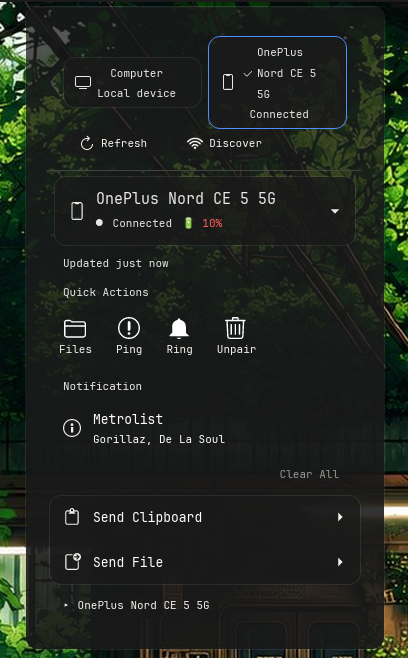
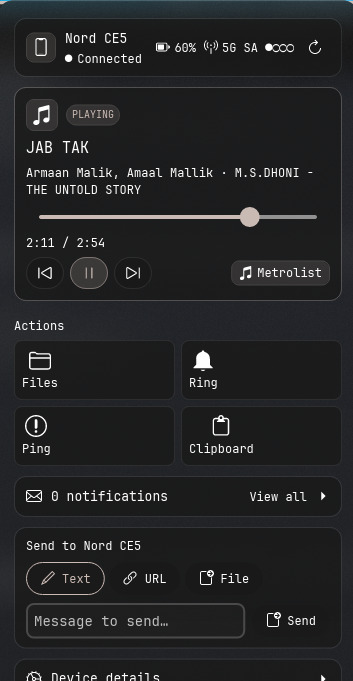
feature update and screenshots update

diff --git a/src/app.rs b/src/app.rs
@@ -8,7 +8,7 @@ use cosmic::app::Core;
 use cosmic::cctk::sctk::shell::wlr_layer::{Anchor, KeyboardInteractivity, Layer};
 use cosmic::cosmic_config::{Config as CosmicConfig, ConfigGet, ConfigSet};
 use cosmic::iced::animation::{Animation, Easing};
-use cosmic::iced::core::text::LineHeight;
+use cosmic::iced::core::text::{Ellipsize, EllipsizeHeightLimit, LineHeight};
 use cosmic::iced::core::Alignment;
 use cosmic::iced::gradient;
 use cosmic::iced::platform_specific::runtime::wayland::layer_surface::{
@@ -2369,6 +2369,31 @@ impl CosmicConnect {
         changed || self.island_notification_queue.len() != before
     }
 
+    /// Drops island notifications that are only the now-playing card for the
+    /// player we now know about. Notifications are fetched before the first
+    /// MPRIS poll, so this also cleans up after the startup race: otherwise the
+    /// ongoing card would keep the island forever and the media feed never wins.
+    fn prune_media_island_notifications(&mut self, device_id: &str) -> bool {
+        let keys: Vec<String> = {
+            let Some(draft) = self.drafts.get(device_id) else {
+                return false;
+            };
+            let Some(player) = draft.player.as_ref() else {
+                return false;
+            };
+            draft
+                .notifications
+                .iter()
+                .filter(|notification| is_media_notification(notification, Some(player)))
+                .map(|notification| island_notification_key(device_id, &notification.id))
+                .collect()
+        };
+
+        keys.iter().fold(false, |changed, key| {
+            self.remove_island_notification_key(key) || changed
+        })
+    }
+
     fn clear_transient_island_notifications(&mut self, device_id: &str) -> bool {
         let prefix = format!("notification:{device_id}:");
         let changed = self
@@ -3578,10 +3603,14 @@ impl CosmicConnect {
             text::text(truncate_text(title.trim(), 40))
                 .size(14.5)
                 .line_height(LineHeight::Absolute(17.0.into()))
+                .wrapping(Wrapping::None)
+                .ellipsize(Ellipsize::End)
                 .class(theme::Text::Color(Color::from_rgb(0.97, 0.98, 1.0))),
             text::text(truncate_text(subtitle.trim(), 52))
                 .size(11.5)
                 .line_height(LineHeight::Absolute(14.0.into()))
+                .wrapping(Wrapping::None)
+                .ellipsize(Ellipsize::End)
                 .class(theme::Text::Color(Color::from_rgb(0.70, 0.74, 0.82))),
         ]
         .spacing(1);
@@ -3629,6 +3658,8 @@ impl CosmicConnect {
                 text::text(truncate_text(detail.trim(), 64))
                     .size(11.0)
                     .line_height(LineHeight::Absolute(14.0.into()))
+                    .wrapping(Wrapping::None)
+                    .ellipsize(Ellipsize::End)
                     .class(theme::Text::Color(Color::from_rgb(0.78, 0.81, 0.88))),
             );
         }
@@ -4533,6 +4564,7 @@ impl cosmic::Application for CosmicConnect {
                 if is_playing {
                     draft.player_last_active = Some(now);
                 }
+                self.prune_media_island_notifications(&device_id);
                 return self.refresh_island();
             }
             Message::ConnectivityUpdated(device_id, connectivity) => {
